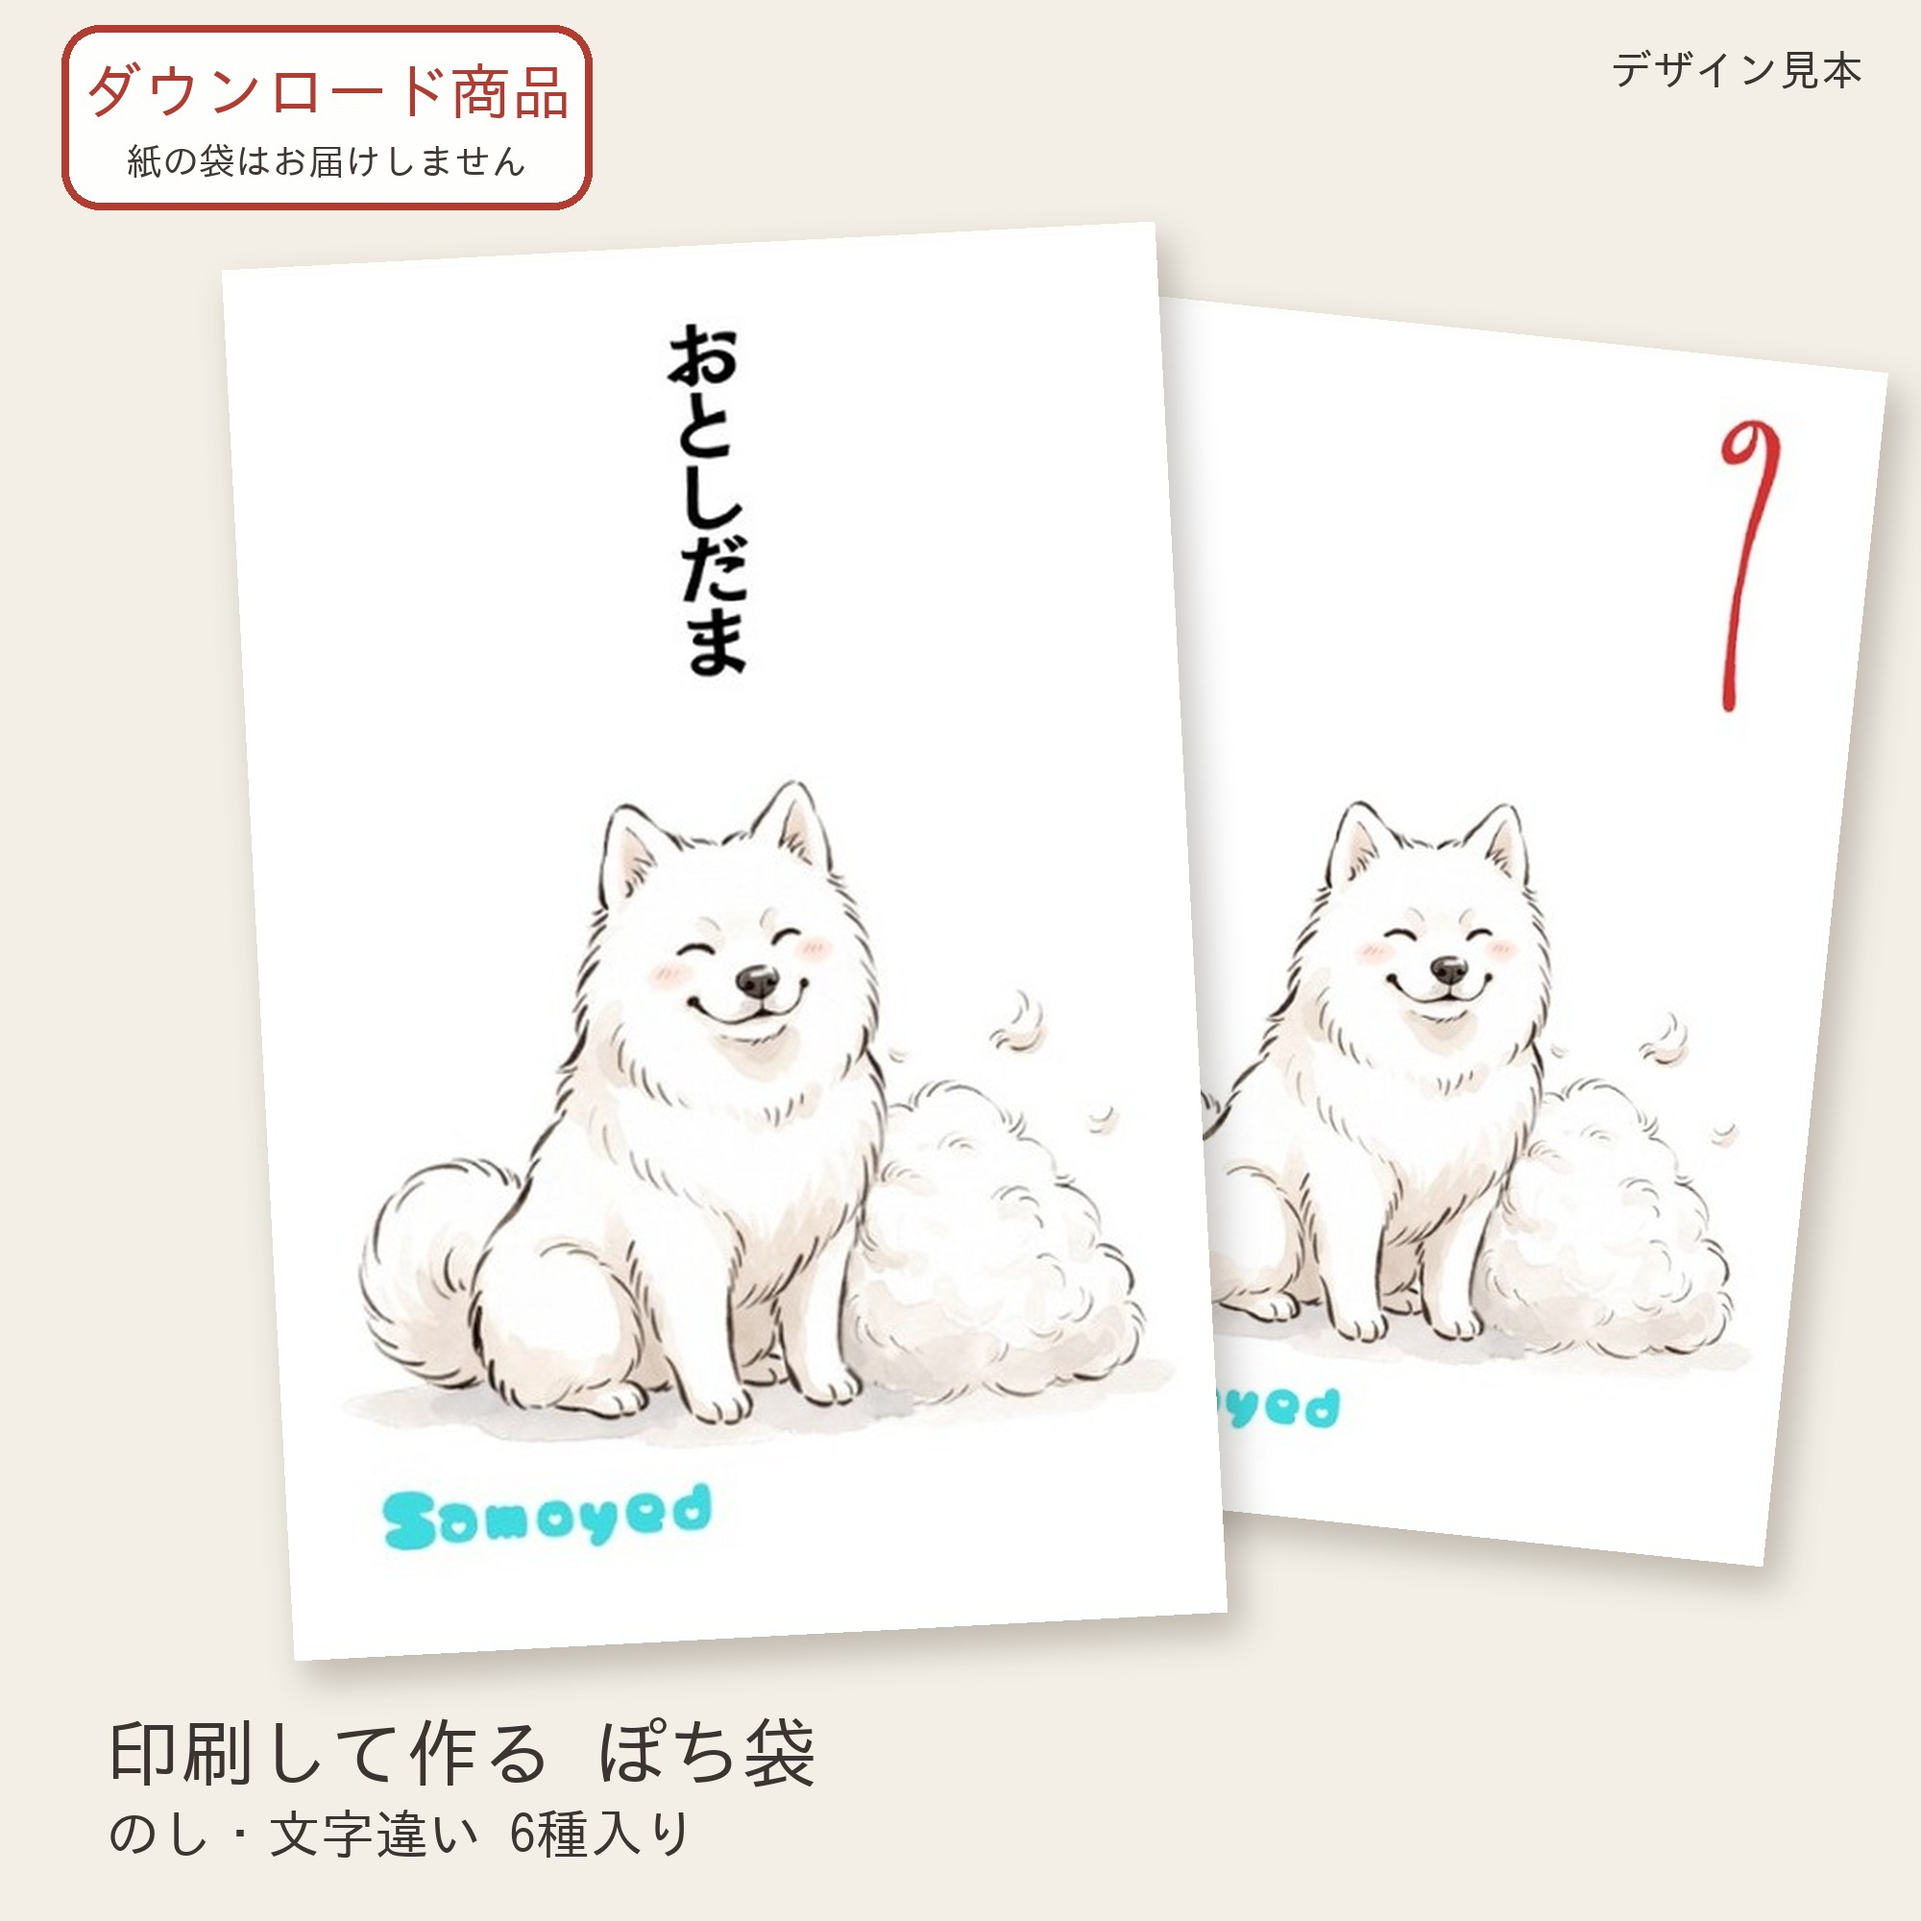
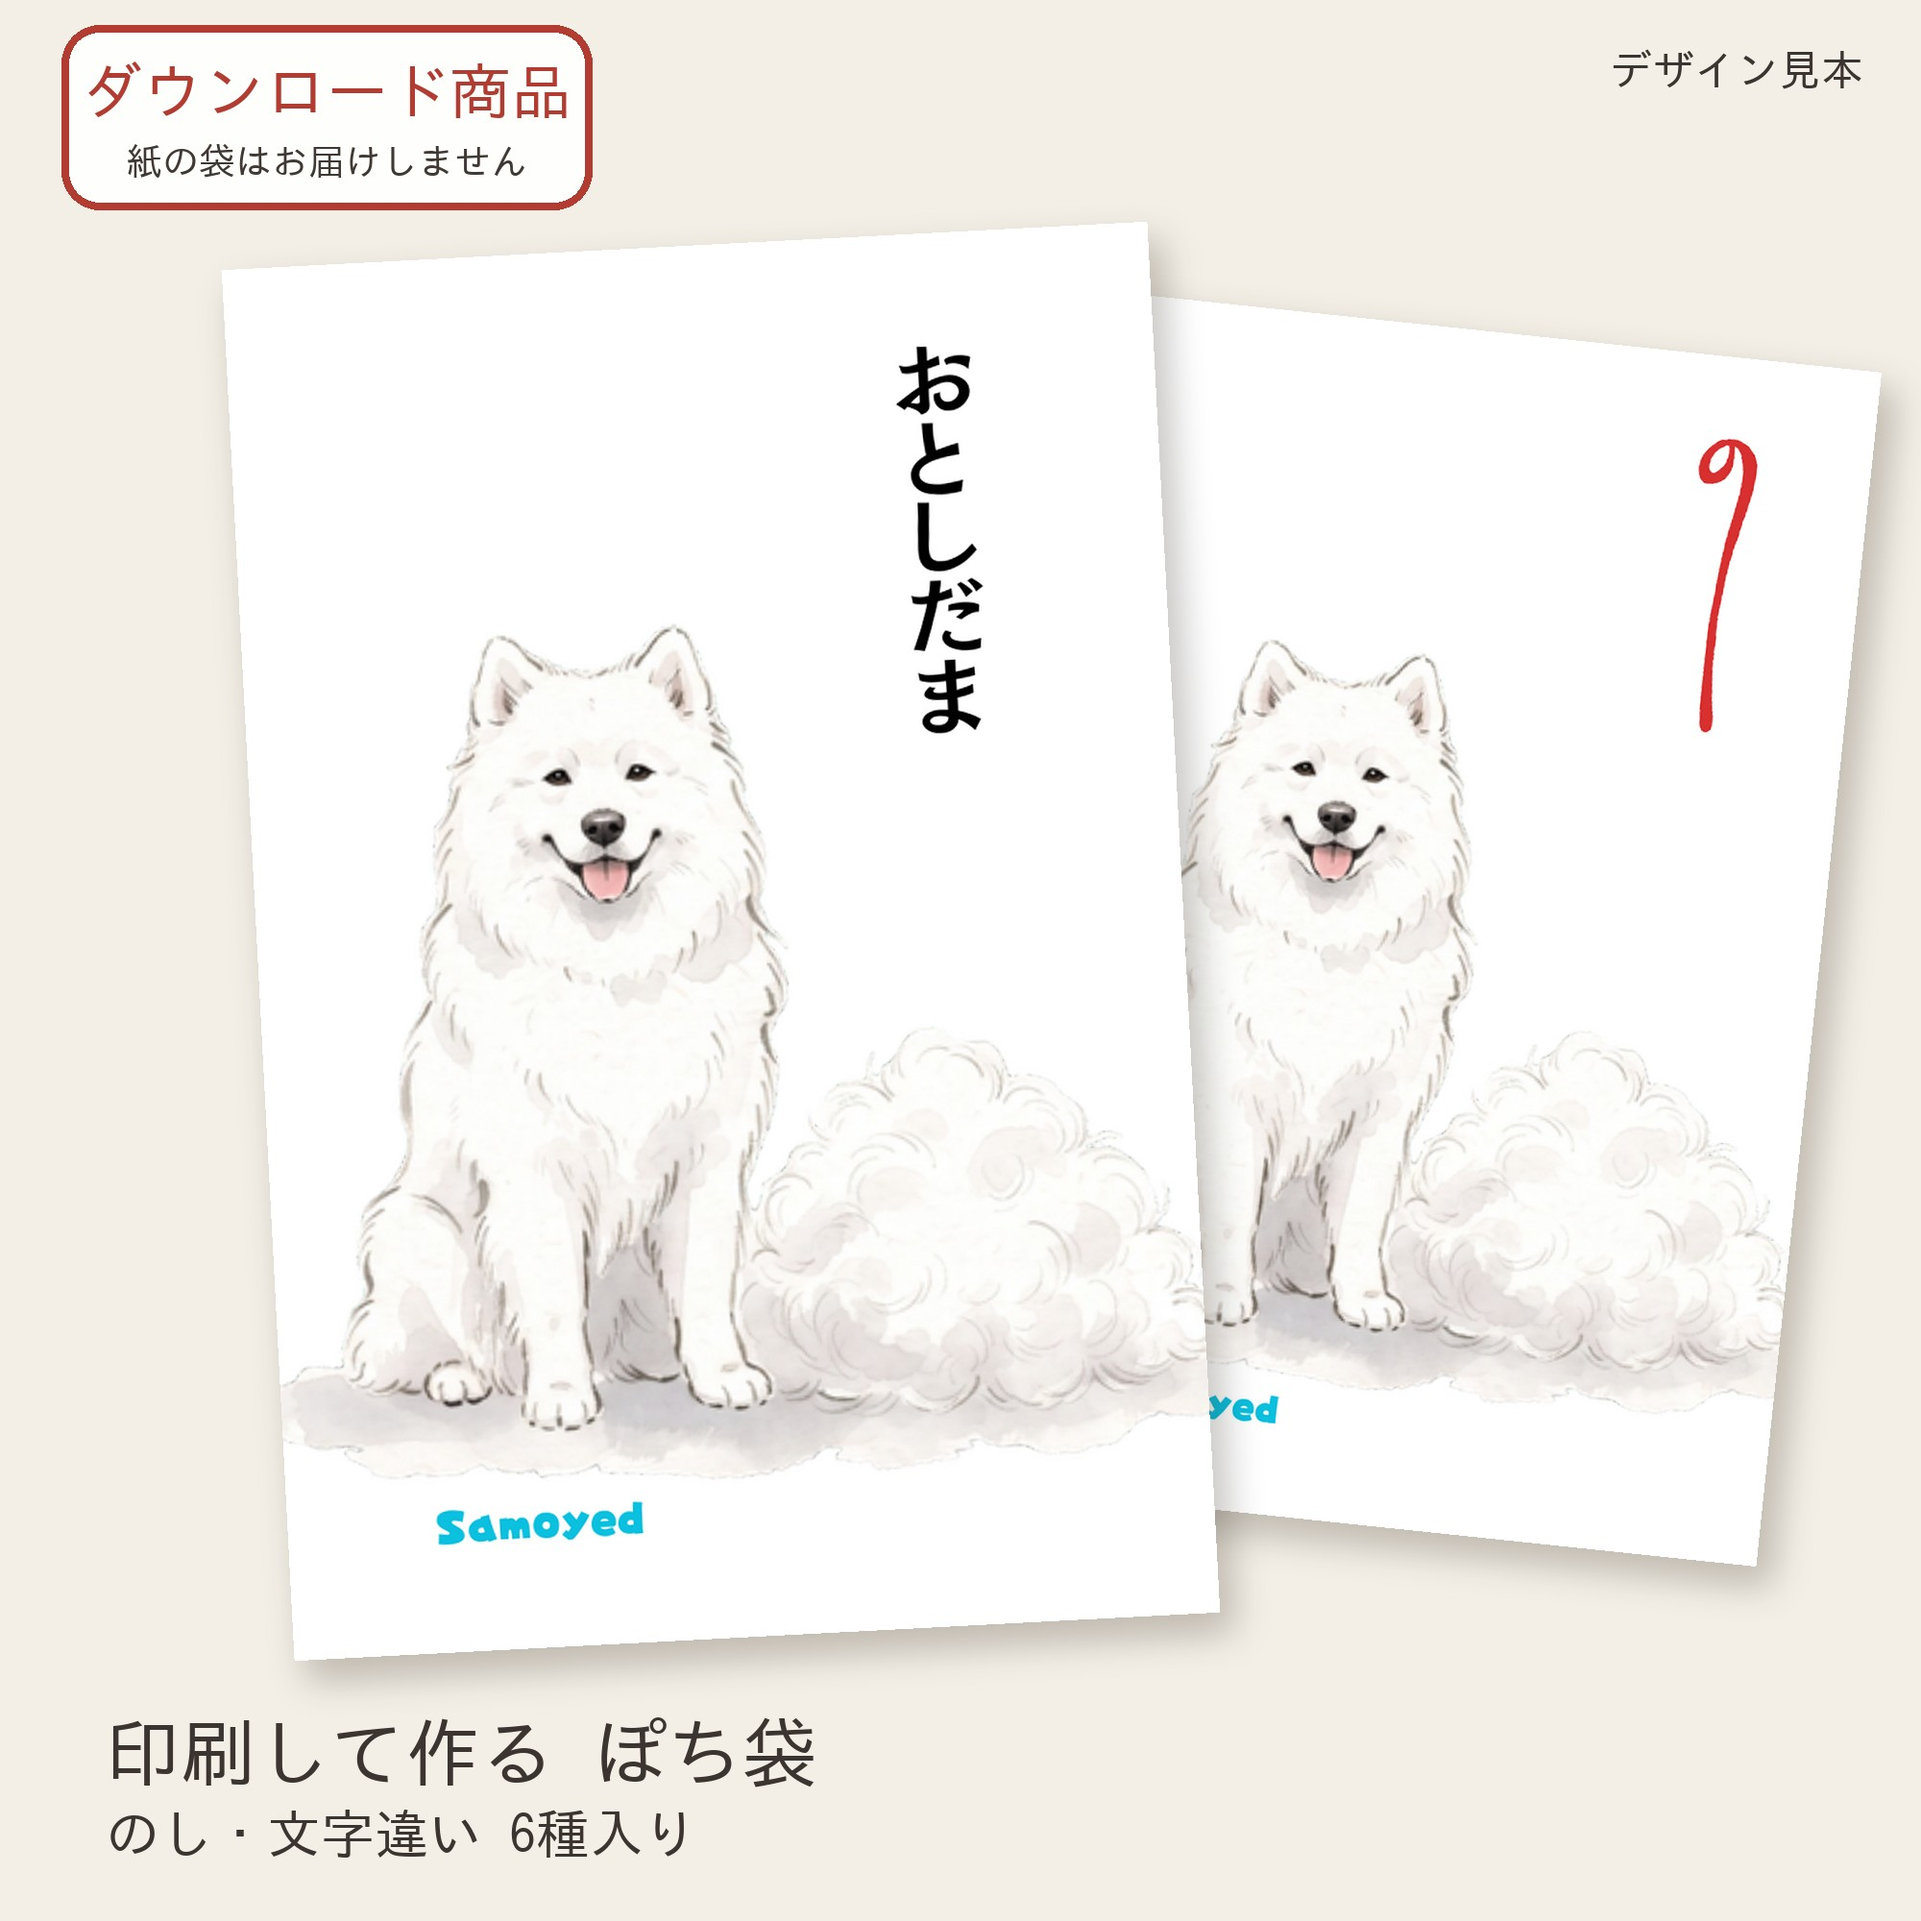
サモエド: 作り直した絵で商品画像(1・3枚目)、場面写真の袋を新しい絵に貼りかえた
Claude-Session: https://claude.ai/code/session_017Q7oY74jx7snH393ipSzN7

diff --git a/docs/minne-pochi-listing-samoyed.md b/docs/minne-pochi-listing-samoyed.md
@@ -1,6 +1,6 @@
 # 出品文(STEP5) サモエドのぽち袋+ポストカード データ版
 
-2026-11-08: 絵を墨絵の書き方で作り直し(漫画っぽさを直した)、ポストカード2種(横向き)を足した。商品名・タグ・説明文をポストカード入りに直した。場面写真の部屋と犬は前のまま(ユーザーの判断)で、袋の絵だけ新しい絵に貼りかえる(白紙に戻した写真を templates/scenes/94.jpg に保存した)。ぽち袋のPDFを待っている。
+2026-11-08: 絵を墨絵の書き方で作り直し(漫画っぽさを直した)、ポストカード2種(横向き)を足した。商品名・タグ・説明文をポストカード入りに直した。場面写真の部屋と犬は前のまま(ユーザーの判断)で、袋の絵だけ新しい絵に貼りかえる(白紙に戻した写真を templates/scenes/94.jpg に保存した)。ぽち袋のPDFで1・3枚目を作り、場面写真の袋も新しい絵に貼りかえた。
 
 ほかの犬種と同じ新しい形(500円)。
 
@@ -112,3 +112,6 @@ uchinoko-aruaru_samoyed_pochi.zip
   `python3 shop/make_postcard.py <絵> samoyed full_yoko --label "Samoyed"`(letter_yoko も同じ)。ZIPでは samoyed_postcard_full.pdf・samoyed_postcard_letter.pdf に名前を変える
 - 最初は、うすい線で描いた毛の山が、繊維を消す処理でほとんど消えた。道具を直して、背景に繊維がない絵ではその処理をしないようにした
 - 新しいPDFが届いたら: `python3 shop/make_from_pdf.py <PDF> samoyed --overwrite` で1・3枚目を作り、`IMG_DIR=<空でもよい> python3 shop/make_scene_blank.py samoyed_1`(templates/scenes/94.jpg を使う。check/front_samoyed_pad.png は新しい袋の表から作り直す)で場面写真の袋を貼りかえる
+- 2026-11-08 新しいPDF: 袋の名前は「Samoyed」(水色の丸い書体)。18か所とも正しいつづり。縦書きの文字は黒(犬の頭をよけて右上)。袋の表は6ページとも64×95mm
+- 絵の左の影は袋の左の折り目を約3mm、右の毛の山は右の折り目を約6mmこえて、横の折りこみにかかる。組み立てると、毛の山の右はしは折り目で切れて見える(ユーザーに伝えた)
+- 場面写真の袋を新しい絵に貼りかえた(scene_samoyed_1.jpg・scene_samoyed_1_note.jpg)
